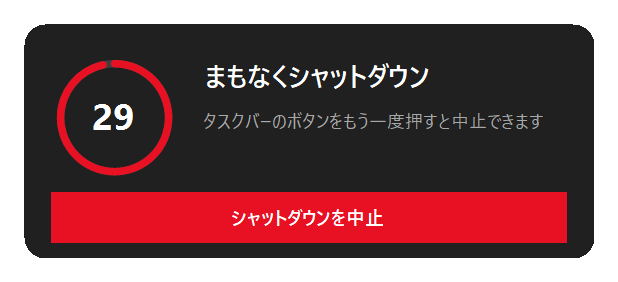
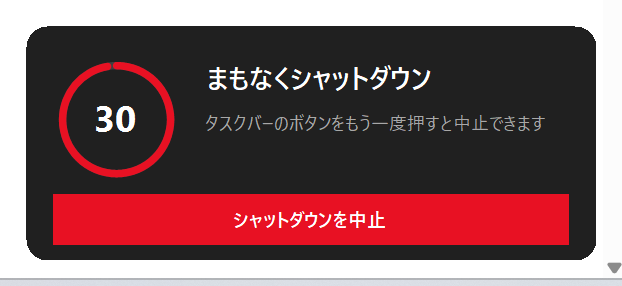
docs: English screenshots by default, zh/ja versions appended, new taskbar shot

diff --git a/README.ja.md b/README.ja.md
@@ -20,11 +20,17 @@ Windows のタスクバーには `shutdown.exe -s -t 0` のショートカット
 
 このプロジェクトは、そのショートカットを「電源ボタンらしく」振る舞う小さな実行ファイルに置き換えます。**中止できる短いカウントダウン**と、**実用的な電源メニュー**です。
 
-<img src="docs/screenshots/01-taskbar.png" width="340" alt="他のピン留めアプリと並んだところ">
+<img src="docs/screenshots/01-taskbar.png" width="133" alt="スタートの隣に並んだ電源ボタン">
 
 | 左クリック | 中止 | メニュー |
 | :---: | :---: | :---: |
 | <img src="docs/screenshots/02-countdown-ja.png" width="330"> | もう一度ボタンを押す · <kbd>Esc</kbd> · 「シャットダウンを中止」 | <img src="docs/screenshots/04-menu-ja.png" width="150"> |
+
+<sub>同じ画面とメニューの英語・中国語版：</sub>
+
+| English | 中文 |
+| :---: | :---: |
+| <img src="docs/screenshots/02-countdown-en.png" width="300"><br><img src="docs/screenshots/04-menu-en.png" width="120"> | <img src="docs/screenshots/02-countdown-zh.png" width="300"><br><img src="docs/screenshots/04-menu-zh.png" width="120"> |
 
 - ログなし、通信なし、常駐プロセスなし、管理者権限も不要です。
 - 書き込むのは次の 3 か所だけ：タスクバーのショートカット、`%LOCALAPPDATA%\PowerButton\`、そして `HKCU` の右クリックメニュー項目 1 つ。

diff --git a/README.md b/README.md
@@ -20,11 +20,17 @@ The Windows taskbar lets you pin a shortcut to `shutdown.exe -s -t 0`. One miscl
 
 This project replaces that shortcut with a small executable that behaves the way a power button should: **a short countdown you can cancel, and a real power menu for everything else.**
 
-<img src="docs/screenshots/01-taskbar.png" width="340" alt="The button among pinned apps">
+<img src="docs/screenshots/01-taskbar.png" width="133" alt="The power button next to Start">
 
 | Left click | Cancel | Menu |
 | :---: | :---: | :---: |
-| <img src="docs/screenshots/02-countdown-ja.png" width="330"> | click the button again · <kbd>Esc</kbd> · or the red button in the window | <img src="docs/screenshots/04-menu-ja.png" width="150"> |
+| <img src="docs/screenshots/02-countdown-en.png" width="330"> | click the button again · <kbd>Esc</kbd> · or the red button in the window | <img src="docs/screenshots/04-menu-en.png" width="150"> |
+
+<sub>The same window and menu in 中文 and 日本語:</sub>
+
+| 中文 | 日本語 |
+| :---: | :---: |
+| <img src="docs/screenshots/02-countdown-zh.png" width="300"><br><img src="docs/screenshots/04-menu-zh.png" width="120"> | <img src="docs/screenshots/02-countdown-ja.png" width="300"><br><img src="docs/screenshots/04-menu-ja.png" width="120"> |
 
 - No logs, no network, no background process, no admin rights.
 - It writes in exactly three places: the pinned shortcut, `%LOCALAPPDATA%\PowerButton\`, and one `HKCU` context-menu entry.

diff --git a/README.zh-CN.md b/README.zh-CN.md
@@ -20,11 +20,17 @@ Windows 允许你把 `shutdown.exe -s -t 0` 钉到任务栏上。这一点下去
 
 这个项目把那个快捷方式换成一个行为像电源键的小程序：**一段能取消的倒计时，外加一个真正可用的电源菜单。**
 
-<img src="docs/screenshots/01-taskbar.png" width="340" alt="和其他固定应用排在一起">
+<img src="docs/screenshots/01-taskbar.png" width="133" alt="电源按钮就排在「开始」旁边">
 
 | 左键 | 取消 | 菜单 |
 | :---: | :---: | :---: |
-| <img src="docs/screenshots/03-countdown-zh.png" width="330"> | 再点一次按钮 · <kbd>Esc</kbd> · 点「取消关机」 | <img src="docs/screenshots/04-menu-ja.png" width="150"> |
+| <img src="docs/screenshots/02-countdown-zh.png" width="330"> | 再点一次按钮 · <kbd>Esc</kbd> · 点「取消关机」 | <img src="docs/screenshots/04-menu-zh.png" width="150"> |
+
+<sub>同一窗口与菜单的英文、日文版本：</sub>
+
+| English | 日本語 |
+| :---: | :---: |
+| <img src="docs/screenshots/02-countdown-en.png" width="300"><br><img src="docs/screenshots/04-menu-en.png" width="120"> | <img src="docs/screenshots/02-countdown-ja.png" width="300"><br><img src="docs/screenshots/04-menu-ja.png" width="120"> |
 
 - 没有日志、没有网络、没有后台进程、不需要管理员权限。
 - 只写三处：任务栏快捷方式本身、`%LOCALAPPDATA%\PowerButton\`、一条 `HKCU` 右键菜单项。
